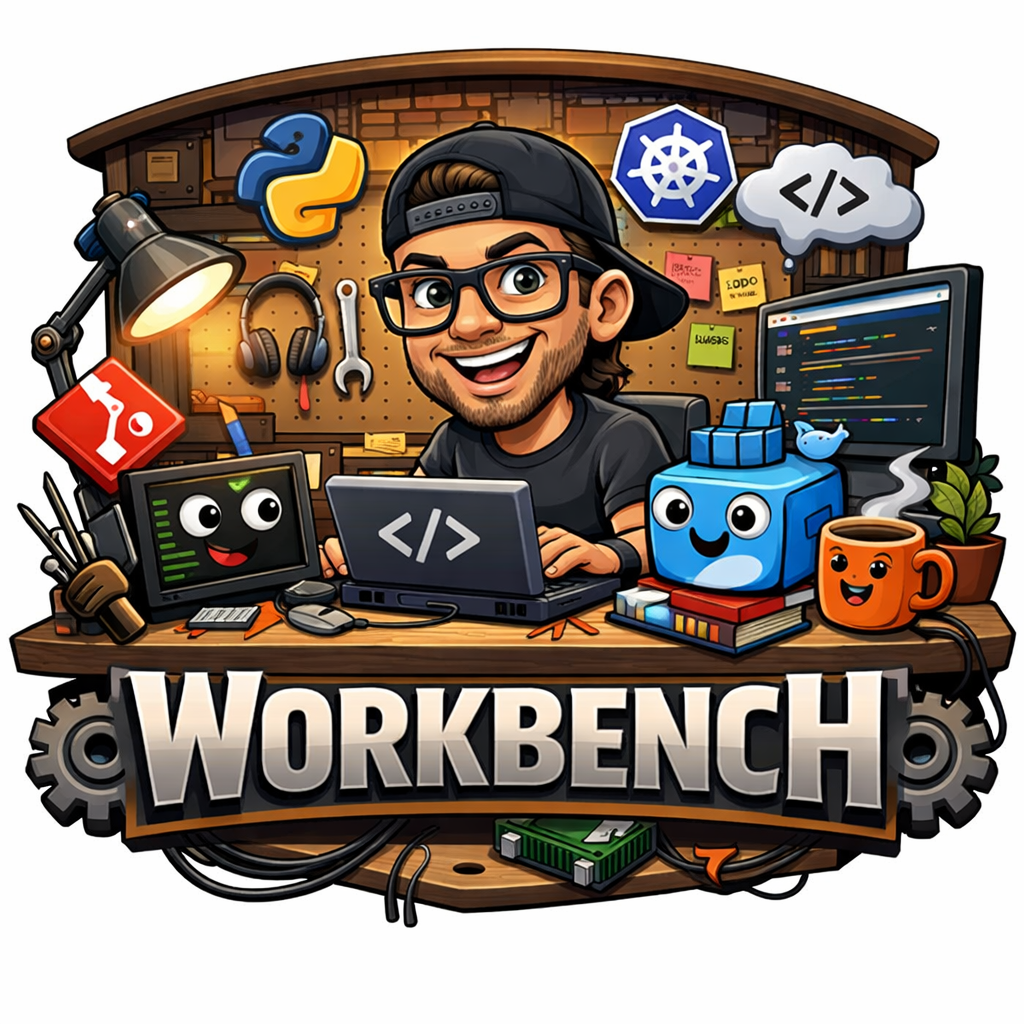
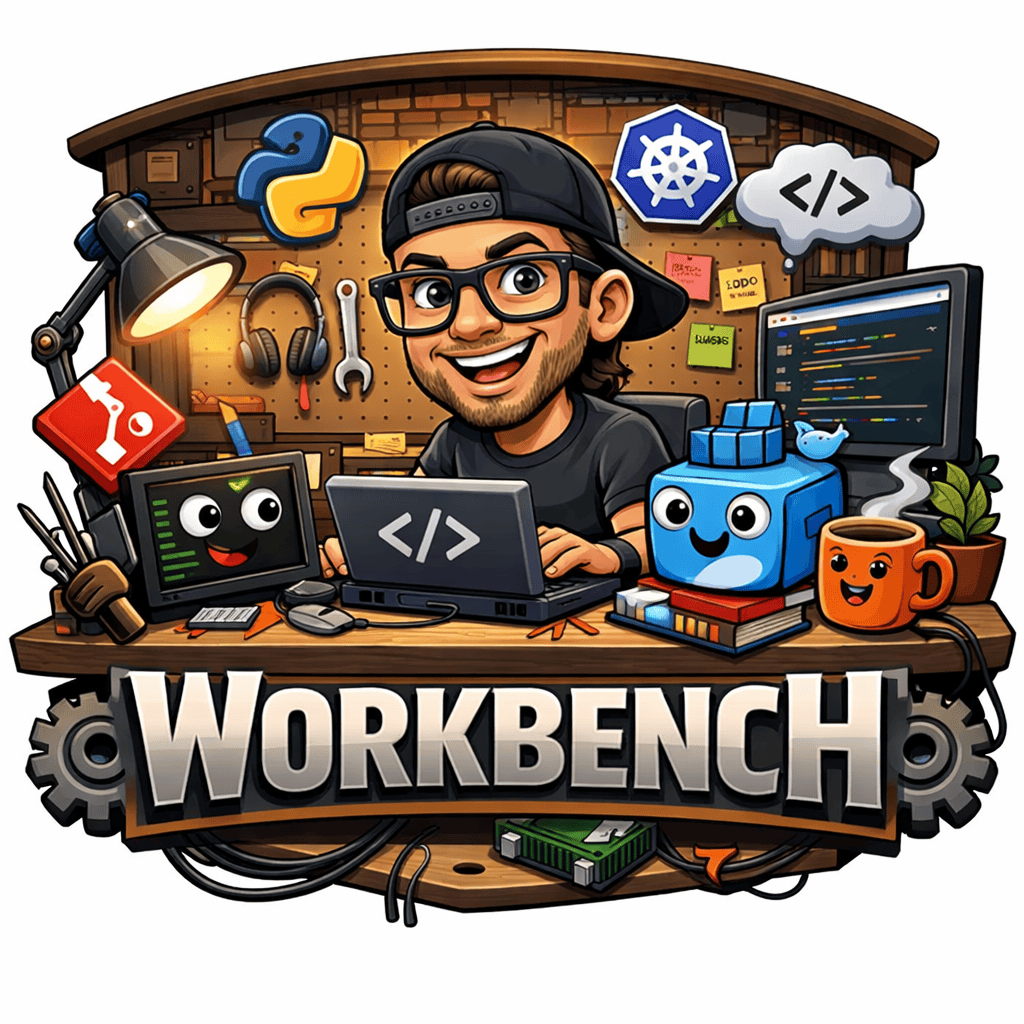
Roast-2 follow-ups, plus a few adjacent fixes that were uncovered along the way:
- Dependabot now watches the github-actions ecosystem so the auto-merge
  workflow's own action pins stay current.
- CI smoke job uses `zsh -ic` against the real ZDOTDIR bootstrap and
  asserts ~/.zshenv exists, so a regression in post-create.sh's #2 fix
  would actually fail CI rather than passing on a weaker check.
- New actionlint job lints workflow YAML + embedded run blocks.
- ghrepo-core captures gh output and emits a real "gh repo list failed"
  message on auth/network errors instead of silently returning empty
  and looking like "no repos."
- Pin the tailscale devcontainer feature to :1 for consistency with the
  other feature pins (lockfile already pins the digest).

- Overhaul VS Code extension list: add vscode-fish, vscode-github-actions,
  markdownlint, code-spell-checker, path-intellisense, and todo-tree —
  all directly relevant to files this repo actually ships. Remove the
  Material theme + icon-theme bundles (personal preferences belong in
  Settings Sync, not in a devcontainer that forks inherit). Fix the
  Claude Code extension ID: anthropic.claude-vscode is 404 on the
  Marketplace; the canonical ID is anthropic.claude-code, so the old
  entry was silently failing to install.

- Optimize workbench-preview.png 1.2 MB → 364 KB via
  pngquant --quality=75-95 --strip; same 1024x1024 dimensions, saves
  840 KB from every future `git clone`.

- Add docs/mise.md: captures the workbench tooling philosophy concretely
[…]

diff --git a/docs/mise.md b/docs/mise.md
@@ -1,0 +1,125 @@
+# mise recipes
+
+Workbench deliberately ships a minimal base image — no language runtimes, no cloud CLIs. Tools get added when and where they're needed. This doc collects the recurring `mise` invocations and answers the more important question: *where should this thing actually live?*
+
+## Three places a tool can go
+
+Before reaching for `mise install <whatever>`, decide which of these buckets the tool belongs in:
+
+| Bucket | Use when | Where it lives |
+|---|---|---|
+| **Dotfiles** | "I want this on *every* Codespace I ever boot" | Your dotfiles repo, applied at Codespace creation |
+| **`mise use -g`** in a running Codespace | "I want this on this Codespace indefinitely, but not at the cost of every new boot" | `~/.local/share/mise/` on the Codespace's persistent volume |
+| **A project's `mise.toml`** | "This project needs it (at a specific version)" | Committed to the project repo |
+
+The workbench repo itself deliberately has no root `mise.toml`. Opinionated tool stacks belong in dotfiles or in the projects you clone — pinning them here would make every workbench Codespace pay startup cost for tools many of them won't use.
+
+## Recipes
+
+### Language runtimes (mise core plugins)
+
+```sh
+mise use -g node@lts
+mise use -g python@3.13
+mise use -g go@latest
+mise use -g java@21
+mise use -g ruby@3.4
+mise use -g rust@stable
+mise use -g php@8.3
+```
+
+For project-scoped versions: `cd <project> && mise use node@22` writes to that project's `mise.toml` instead of your global config — version drift between projects is the whole reason mise exists.
+
+### AI CLIs
+
+**Claude Code** ships a native installer that drops a self-contained binary — no node runtime, no global npm package. Install once via your dotfiles bootstrap (or run the installer manually on a Codespace) and you're done. The official setup steps live at [docs.claude.com/en/docs/claude-code/setup](https://docs.claude.com/en/docs/claude-code/setup); the binary typically lands under `~/.local/bin/`.
+
+**Codex CLI** is currently npm-distributed (`@openai/codex`). If you'd rather not have a global node install on every Codespace purely to host a CLI tool, the honest options are:
+
+- Use Codex from a project where node is already pinned (so node lives in that project's `mise.toml`, not your global config)
+- Wait for a native distribution
+- Scope the global node install narrowly and accept that you have node on PATH
+
+**Avoid putting node in your global mise config just to host CLI tools.** It compounds: every Codespace pays the cost, every project that pins its own node version now fights your global pin, and you end up with `npm: command not found` confusion when activation order is wrong. Native binaries dodge all of this.
+
+### Cloud CLIs
+
+```sh
+mise use -g pipx:awscli      # AWS CLI v2
+mise use -g pipx:azure-cli   # az
+# gcloud is easier installed via Google's official installer — drop it in dotfiles
+```
+
+For tools that `mise registry | grep <name>` doesn't surface cleanly, the vendor installer in dotfiles is usually less painful than wrestling with a custom backend.
+
+### Kubernetes + IaC
+
+```sh
+mise use -g kubectl@latest
+mise use -g helm@latest
+mise use -g terraform@latest
+mise use -g k9s@latest
+```
+
+### PHP / Java ecosystem
+
+The language has to land before its package manager is useful:
+
+```sh
+# PHP
+mise use -g php@8.3
+mise use -g composer@latest
+
+# Java
+mise use -g java@21
+mise use -g maven@latest
+mise use -g gradle@latest
+```
+
+For real PHP or Java projects, the language version belongs in *that project's* `mise.toml`, not your global config. Pinning `java@21` globally is asking for the next "actually this one needs Java 17" project to fight you.
+
+### Task runners and dev-loop glue
+
+```sh
+mise use -g just@latest
+mise use -g task@latest
+mise use -g direnv@latest
+```
+
+## A project's `mise.toml` (reference)
+
+A reasonable starting point to drop into a project repo:
+
+```toml
+[tools]
+node      = "22"
+python    = "3.13"
+terraform = "1.9"
+"npm:typescript" = "latest"
+"pipx:awscli"    = "latest"
+
+[env]
+# Loaded automatically when mise activates the directory
+PROJECT_ROOT = "{{ config_root }}"
+
+[tasks.test]
+run = "npm test"
+
+[tasks.deploy]
+depends = ["test"]
+run     = "terraform apply -auto-approve"
+```
+
+Then anyone who clones, runs `mise install`, gets the exact same node 22 + python 3.13 + terraform 1.9 toolchain with `aws` and `tsc` on PATH. No "works on my machine."
+
+## Gotchas
+
+- **Codespaces volume persistence.** Globally-installed mise tools live under `~/.local/share/mise/`, on the Codespace's persistent volume. They survive restarts but **not Codespace deletion**. If you recreate Codespaces frequently, push tools you can't live without down into dotfiles.
+
+- **Backend collisions.** `mise use -g terraform@latest` (core) and `mise use -g aqua:hashicorp/terraform` install *the same tool* through different backends. They can resolve to different versions and PATH order decides who wins. Pick one backend per tool.
+
+- **`mise registry` is the source of truth.** When you're not sure which backend or slug to use: `mise registry | grep <name>`.
+
+- **Prebuilds don't run `mise install`.** Codespaces prebuilds bake the devcontainer features and `post-create.sh` output (see [codespaces.md](codespaces.md#prebuilds-recommended)) but **don't** pre-install your global mise tools. First-time use of a tool still incurs the install cost — usually fast, but worth knowing on a fresh Codespace.
+
+- **`mise activate` vs `mise use`.** `mise use` writes a config entry; `mise activate` is what your shell needs in its rc file to actually expose the tools on PATH. Dotfiles should handle activation once; `mise use` is the day-to-day command.

diff --git a/README.md b/README.md
@@ -32,6 +32,7 @@ Configure once in your GitHub settings:
 | `ghrepo` — fuzzy-search and clone any repo | [docs/ghrepo.md](docs/ghrepo.md) |
 | Prebuilds, machine size, idle/retention, Dependabot auto-merge | [docs/codespaces.md](docs/codespaces.md) |
 | Using this Codespace from iPadOS (Safari PWA, Echo, Tailscale) | [docs/ipad.md](docs/ipad.md) |
+| Where to put what tool — `mise` recipes for runtimes, AI CLIs, cloud CLIs | [docs/mise.md](docs/mise.md) |
 
 ## What's included
 
@@ -94,12 +95,14 @@ Repos cloned into this workspace bring their own `mise.toml`. Run `mise install`
 
 | Extension | Purpose |
 |---|---|
-| bash-ide, shell-format, shellcheck | Shell script editing and linting |
-| GitLens, git-graph | Git history and blame |
+| bash-ide, shell-format, shellcheck, vscode-fish | Shell script editing + linting (bash, sh, fish) |
+| GitLens, git-graph, vscode-github-actions | Git history, blame, workflow editing |
 | vscode-yaml, even-better-toml | Config file editing |
+| markdownlint | Markdown linting for the docs |
 | vscode-docker | Docker integration |
-| errorlens | Inline error display |
-| Material Theme + Icons | UI theme |
+| errorlens, path-intellisense, todo-tree, EditorConfig | Editor productivity + style |
+| code-spell-checker | Catches typos in docs and code |
+| Claude Code, GitHub Copilot | AI assistants |
 
 ## Structure
 
@@ -124,5 +127,6 @@ docs/
 ├── secrets.md              # PATs + Codespaces secrets
 ├── ghrepo.md               # ghrepo usage
 ├── codespaces.md           # prebuilds, machine size, timeouts
-└── ipad.md                 # iPadOS workflow
+├── ipad.md                 # iPadOS workflow
+└── mise.md                 # mise recipes: where to put each tool
 ```